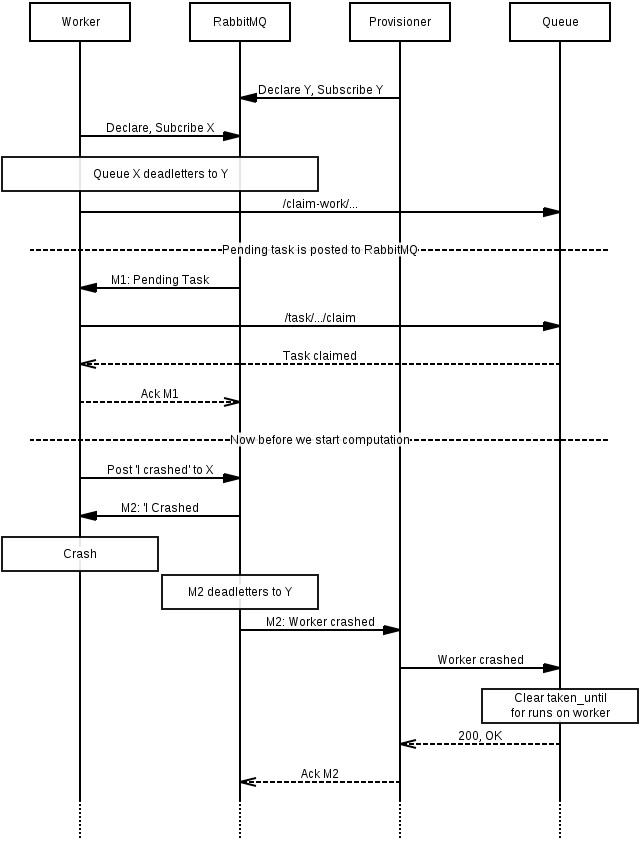
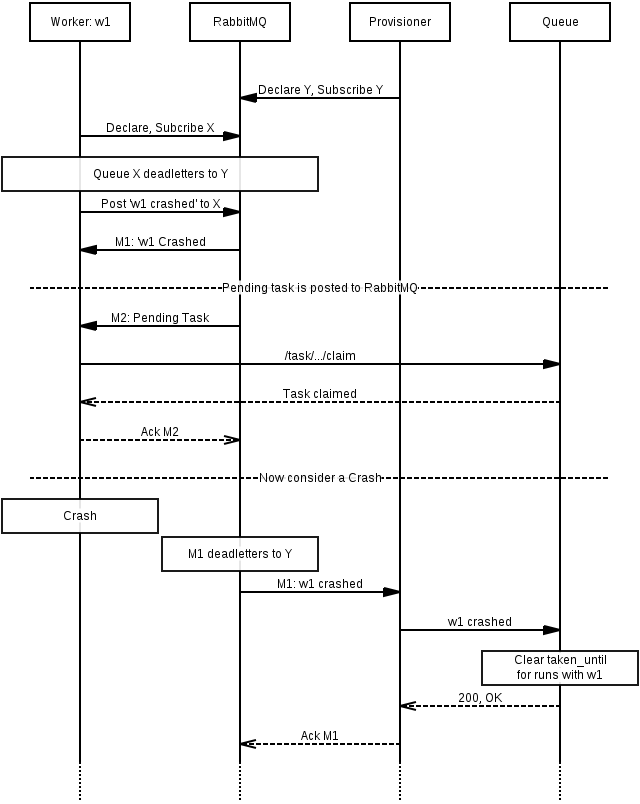
simplified crash detection a bit...

diff --git a/charts/non-polling-worker.md b/charts/non-polling-worker.md
@@ -75,47 +75,11 @@ Queue       =>  RabbitMQ  : "Pending Task";
 
 
 
-# Non-polling Worker w. Crash Detection (without Crash)
-```
-# Example of a non-polling worker crash detection
-
-Worker, RabbitMQ, Provisioner, Queue;
-
-Provisioner =>  RabbitMQ    : "Declare Y, Subscribe Y";
-
-# Worker declares queue
-Worker      =>  RabbitMQ    : "Declare, Subcribe X";
-Worker      box RabbitMQ    : "Queue X deadletters to Y";
-
-Worker      =>  Queue       : "/claim-work/...";
-
----: Pending task is posted to RabbitMQ;
-
-# As usual worker is listening for pending tasks
-RabbitMQ    =>  Worker      : "M1: Pending Task";
-Worker      =>  Queue       : "/task/.../claim";
-Queue       >>  Worker      : "Task claimed";
-Worker      >>  RabbitMQ    : "Ack M1";
-
----: Now before we start computation;
-
-# Now before we Ack M1
-Worker      =>  RabbitMQ    : "Post 'I crashed' to X";
-RabbitMQ    =>  Worker      : "M2: 'I Crashed";
-
-Worker box Worker : Compute;
-
-Worker      >> RabbitMQ     : "Ack M2";
-
-...;
-```
-
-
 # Non-polling Worker w. Crash Detection (Crash)
 ```
 # Example of a non-polling worker crash detection
 
-Worker, RabbitMQ, Provisioner, Queue;
+Worker : "Worker: w1", RabbitMQ, Provisioner, Queue;
 
 Provisioner =>  RabbitMQ    : "Declare Y, Subscribe Y";
 
@@ -123,30 +87,30 @@ Provisioner =>  RabbitMQ    : "Declare Y, Subscribe Y";
 Worker      =>  RabbitMQ    : "Declare, Subcribe X";
 Worker      box RabbitMQ    : "Queue X deadletters to Y";
 
-Worker      =>  Queue       : "/claim-work/...";
+# Now before we Ack M1
+Worker      =>  RabbitMQ    : "Post 'w1 crashed' to X";
+RabbitMQ    =>  Worker      : "M1: 'w1 Crashed";
+
 
 ---: Pending task is posted to RabbitMQ;
 
 # As usual worker is listening for pending tasks
-RabbitMQ    =>  Worker      : "M1: Pending Task";
+RabbitMQ    =>  Worker      : "M2: Pending Task";
 Worker      =>  Queue       : "/task/.../claim";
 Queue       >>  Worker      : "Task claimed";
-Worker      >>  RabbitMQ    : "Ack M1";
+Worker      >>  RabbitMQ    : "Ack M2";
 
----: Now before we start computation;
+---: Now consider a Crash;
 
-# Now before we Ack M1
-Worker      =>  RabbitMQ    : "Post 'I crashed' to X";
-RabbitMQ    =>  Worker      : "M2: 'I Crashed";
 
 Worker box Worker : Crash;
 
-RabbitMQ box RabbitMQ       : "M2 deadletters to Y";
-RabbitMQ    =>  Provisioner : "M2: Worker crashed";
-Provisioner =>  Queue       : "Worker crashed";
-Queue box Queue             : "Clear taken_until for runs on worker";
+RabbitMQ box RabbitMQ       : "M1 deadletters to Y";
+RabbitMQ    =>  Provisioner : "M1: w1 crashed";
+Provisioner =>  Queue       : "w1 crashed";
+Queue box Queue             : "Clear taken_until for runs with w1";
 Queue       >>  Provisioner : "200, OK";
-Provisioner >>  RabbitMQ    : "Ack M2";
+Provisioner >>  RabbitMQ    : "Ack M1";
 
 ...;
 ```
